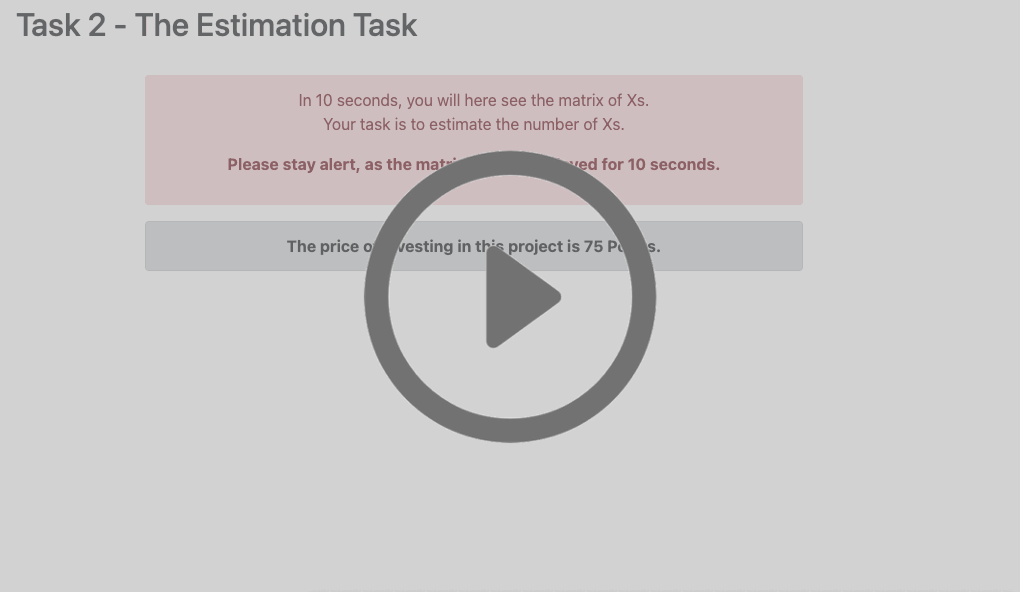
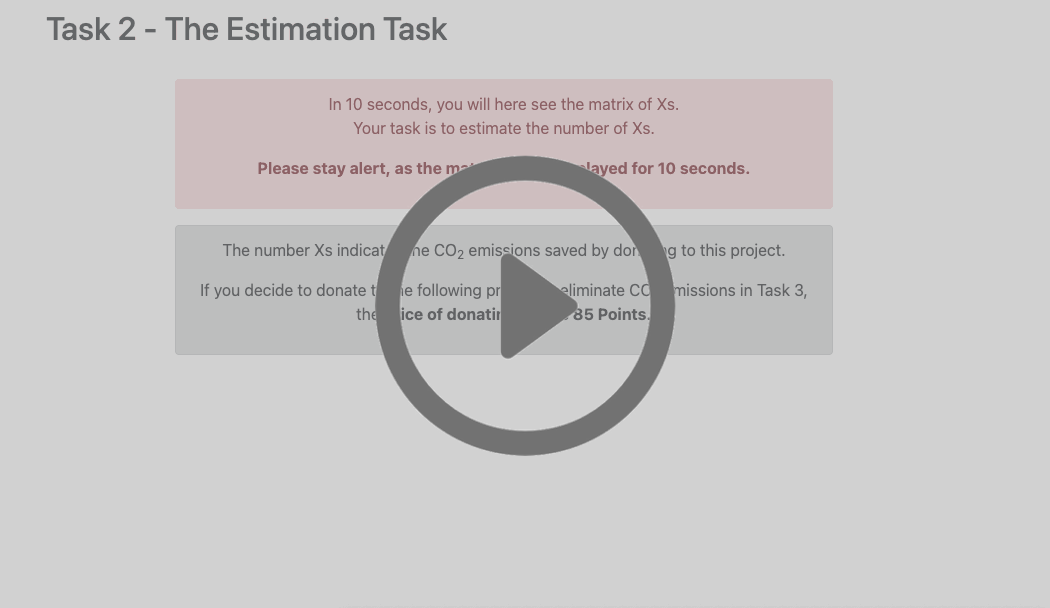
updated instructions

diff --git a/impact_beliefs/templates/impact_beliefs/BeliefInstructions1.html b/impact_beliefs/templates/impact_beliefs/BeliefInstructions1.html
@@ -73,7 +73,7 @@
                                 your donation to this project will eliminate 50 kg of CO<sub>2</sub>
                                 which corresponds to the emissions caused by driving 180 miles in an average car.
                                 When you submit the estimate, you will also see the price it will cost to donate to this particular project.
-                                <strong>Prices can range between 11.25 and 138.75 Points.</strong>
+                                <strong>Prices can range between {{ Constants.min_price }} and {{ Constants.max_price }} Points.</strong>
                             </p>
                         {% endif %}
                         <p>
@@ -207,8 +207,9 @@
 
                     <div class="alert alert-dark">
                         Before we start with the actual task, we will give you the opportunity to familiarise yourself
-                        with the task in 3 practice trials. Your answers in these practice trials will not affect your final score.
-                        Nevertheless, please remain attentive as you will only be admitted to the payment-relevant part if you answer at least once in time.
+                        with the task in 3 practice trials. Your answers in these practice trials will not affect your final payment.
+                        Nevertheless, you have to remain attentive as you will only be admitted to the payment-relevant part
+                        if you answer in time and pass some attention checks.
                     </div>
 
                     <div style="display:none">

diff --git a/impact_beliefs/templates/impact_beliefs/IntroWelcome.html b/impact_beliefs/templates/impact_beliefs/IntroWelcome.html
@@ -100,10 +100,11 @@
                         <p>
                             Welcome to this experiment conducted by Frauke Stehr, a researcher at Maastricht University.
                             In the experiment you will be able to earn money based on the choices you make.
-                            You will earn a fixed fee of {{ session.config.participation_fee }} for completing the study.
+                            You will earn a fixed participation fee of {{ session.config.participation_fee }} for completing the study.
                             Depending on your choices in the experiment, you may earn substantially more.
-                            We have calibrated the payments so that participants earn &pound4.35 on average.
-                            Your payments can, however, be larger or smaller depending on your decisions during the experiment.
+                            We have calibrated the payments so that participants who finish the experiment <strong>earn at least
+                            &pound2.95, and &pound4.35 on average</strong>. Your precise payments can, however,
+                            be larger or smaller depending on your decisions during the experiment.
                         </p>
                         <p>
                             In case you have questions about this research, you can reach the researcher at

diff --git a/payment_info/templates/payment_info/Terminated.html b/payment_info/templates/payment_info/Terminated.html
@@ -1,0 +1,36 @@
+{% extends "global/Page.html" %}
+{% load otree %}
+
+{% block scripts %}
+    <script>
+        function saveTime() {
+            var EndTime = new Date().getTime();
+            document.getElementById("finishing_time").value = EndTime;
+        }
+    </script>
+{% endblock %}
+
+
+{% block title %}
+    Thank you
+{% endblock %}
+
+{% block content %}
+
+    {% if timeout %}
+        <p>
+            Your participation in this experiment was terminated, because you did not answer in time too often.
+        </p>
+    {% elif attention_check_failed %}
+        <p>
+            Your participation in this experiment was terminated, because you did not correctly answer an attention check question.
+        </p>
+    {% endif %}
+
+    <p>To leave the experiment, you can simply close the browser window.</p>
+
+    <input id="finishing_time" name="finishing_time" type="hidden" value=""/>
+
+{% endblock %}
+
+

diff --git a/impact_beliefs/templates/impact_beliefs/Belief.html b/impact_beliefs/templates/impact_beliefs/Belief.html
@@ -70,7 +70,13 @@
 
         {% if player.treatment == "Motivated" %}
             <div class="alert alert-dark" style="text-align: center;display:block;margin-left:auto; margin-right:auto; width:70%;">
-                <strong> The price of investing in this project is {{ price_to_show }} Points. </strong>
+                <p>
+                    The number Xs indicates the CO<sub>2</sub> emissions saved by donating to this project.
+                </p>
+                <p>
+                    If you decide to donate to the following project to eliminate CO<sub>2</sub> emissions in Task 3,
+                    the <strong>price of donating will be {{ price_to_show }} Points. </strong>
+                </p>
             </div>
         {% endif %}
 
@@ -94,4 +100,3 @@
 
 <p style="margin-top:30cm;"></p>
 {% endblock %}
-}

diff --git a/impact_beliefs/templates/impact_beliefs/DonationInstructions1.html b/impact_beliefs/templates/impact_beliefs/DonationInstructions1.html
@@ -78,7 +78,7 @@
                             {% endif %}
                             When making your donation decision, you will be informed about the price of the donation for this project.
                             You then decide whether or not you want to donate to this specific project.
-                            <strong>Prices can range between 11.25 and 138.75 Points.</strong>
+                            <strong>Prices can range between {{ Constants.min_price }} and {{ Constants.max_price }} Points.</strong>
                         </p>
                         <p>
                             We remind you of your estimate of the number of Xs of this project in the previous task.

diff --git a/payment_info/templates/payment_info/PaymentInfo.html b/payment_info/templates/payment_info/PaymentInfo.html
@@ -17,21 +17,10 @@
 
 {% block content %}
 
-    {% if timeout %}
-        <p>
-            Your participation in this experiment was terminated, because you did not answer on time too often.
-        </p>
-    {% elif attention_check_failed %}
-        <p>
-            Your participation in this experiment was terminated, because you did not correctly answer an attention check question.
-        </p>
-    {% else %}
-        <p>
-            Thank you for your participation in this experiment!
-        </p>
-    {% endif %}
 
-
+    <p>
+        Thank you for your participation in this experiment!
+    </p>
 
     <p>
         This is your final bonus payment: {{ final_payoff_display }}.

diff --git a/impact_beliefs/templates/impact_beliefs/TrialBelief1.html b/impact_beliefs/templates/impact_beliefs/TrialBelief1.html
@@ -23,7 +23,7 @@
 
         <div class="alert alert-danger" id="alert" style="text-align: center;display:block;margin-left:auto; margin-right:auto; width:70%;">
             <p>
-                In three seconds, you will here see the matrix of Xs. <br> Your task is to estimate the number of Xs.
+                In 10 seconds, you will here see the matrix of Xs. <br> Your task is to estimate the number of Xs.
             </p>
             <p>
                 <strong>

diff --git a/impact_beliefs/templates/impact_beliefs/TrialBelief2.html b/impact_beliefs/templates/impact_beliefs/TrialBelief2.html
@@ -23,7 +23,7 @@
 
         <div class="alert alert-danger" id="alert" style="text-align: center;display:block;margin-left:auto; margin-right:auto; width:70%;">
             <p>
-                In three seconds, you will here see the matrix of Xs. <br> Your task is to estimate the number of Xs.
+                In 10 seconds, you will here see the matrix of Xs. <br> Your task is to estimate the number of Xs.
             </p>
             <p>
                 <strong>

diff --git a/impact_beliefs/templates/impact_beliefs/TrialBelief3.html b/impact_beliefs/templates/impact_beliefs/TrialBelief3.html
@@ -24,7 +24,7 @@
 
         <div class="alert alert-danger" id="alert" style="text-align: center;display:block;margin-left:auto; margin-right:auto; width:70%;">
             <p>
-                In three seconds, you will here see the matrix of Xs. <br> Your task is to estimate the number of Xs.
+                In 10 seconds, you will here see the matrix of Xs. <br> Your task is to estimate the number of Xs.
             </p>
             <p>
                 <strong>

diff --git a/impact_beliefs/static/js/trialsliders.js b/impact_beliefs/static/js/trialsliders.js
@@ -1,4 +1,4 @@
-let Intro = 3 * 1000;
+let Intro = 10 * 1000;
 let Delay = js_vars.sec_per_matrix * 1000;
 
 function HideImageLoadForm() {

diff --git a/payment_info/pages.py b/payment_info/pages.py
@@ -3,31 +3,38 @@ from otree.api import Currency as c, currency_range
 from .models import Constants
 
 
-class PaymentInfo(Page):
+class Terminated(Page):
     form_model = 'player'
     form_fields = ['finishing_time']
+
+    def is_displayed(self):
+        return self.participant.vars['trial_timeout_counter'] == 3 or self.participant.vars['timeout_counter'] == 2 \
+               or self.participant.vars['attention_check_failed'] == True
 
     def vars_for_template(self):
         participant = self.participant
         if participant.vars['trial_timeout_counter'] == 3 or participant.vars['timeout_counter'] == 2:
             timeout = True
             attention_fail = False
-            final_payoff = 0
-            final_payoff_plus_part_fee = self.session.config.participation_fee
-        # elif participant.vars['attention_check_failed']== True:
-        #     timeout = False
-        #     attention_fail = True
-        #     final_payoff = 0
-        #     final_payoff_plus_part_fee = self.session.config.participation_fee
-        else:
+        elif participant.vars['attention_check_failed'] == True:
             timeout = False
-            attention_fail = False
-            final_payoff = participant.payoff
-            final_payoff_plus_part_fee = participant.payoff_plus_participation_fee()
+            attention_fail = True
+        return {'timeout': timeout, 'attention_check_failed': attention_fail}
+        # dict(redemption_code=participant.label or participant.code)
 
-        return {'timeout': timeout, 'attention_check_failed': attention_fail, 'final_payoff_display': final_payoff,
+
+class PaymentInfo(Page):
+    form_model = 'player'
+    form_fields = ['finishing_time']
+
+    def vars_for_template(self):
+        participant = self.participant
+        final_payoff = participant.payoff
+        final_payoff_plus_part_fee = participant.payoff_plus_participation_fee()
+
+        return {'final_payoff_display': final_payoff,
                 'final_payoff_plus_part_fee_display': final_payoff_plus_part_fee}
         # dict(redemption_code=participant.label or participant.code)
 
 
-page_sequence = [PaymentInfo]
+page_sequence = [Terminated, PaymentInfo]

diff --git a/impact_beliefs/models.py b/impact_beliefs/models.py
@@ -45,6 +45,9 @@ class Constants(BaseConstants):
     real_world_kg_co2_per_x = 0.5
     car_kg_co2_per_mile = 0.275  # source: carbonindependent.org with avg mpg=52
 
+    min_price = 12.75
+    max_price = 157.25
+
 
 class Subsession(BaseSubsession):
     def creating_session(self):
@@ -217,10 +220,10 @@ class Player(SliderPlayer):
         if self.round_number == 1 and value != 50:
             self.wrong_answer2 += 1
             return "Wrong answer."
-        elif self.round_number == 2 and value != 150:
+        elif self.round_number == 2 and value != Constants.beliefs_fixed_payment:
             self.wrong_answer2 += 1
             return "Wrong answer."
-        elif self.round_number == len(Constants.paras) + 2 and value != 280:
+        elif self.round_number == len(Constants.paras) + 2 and value != Constants.endowment:
             self.wrong_answer2 += 1
             return "Wrong answer."
 
